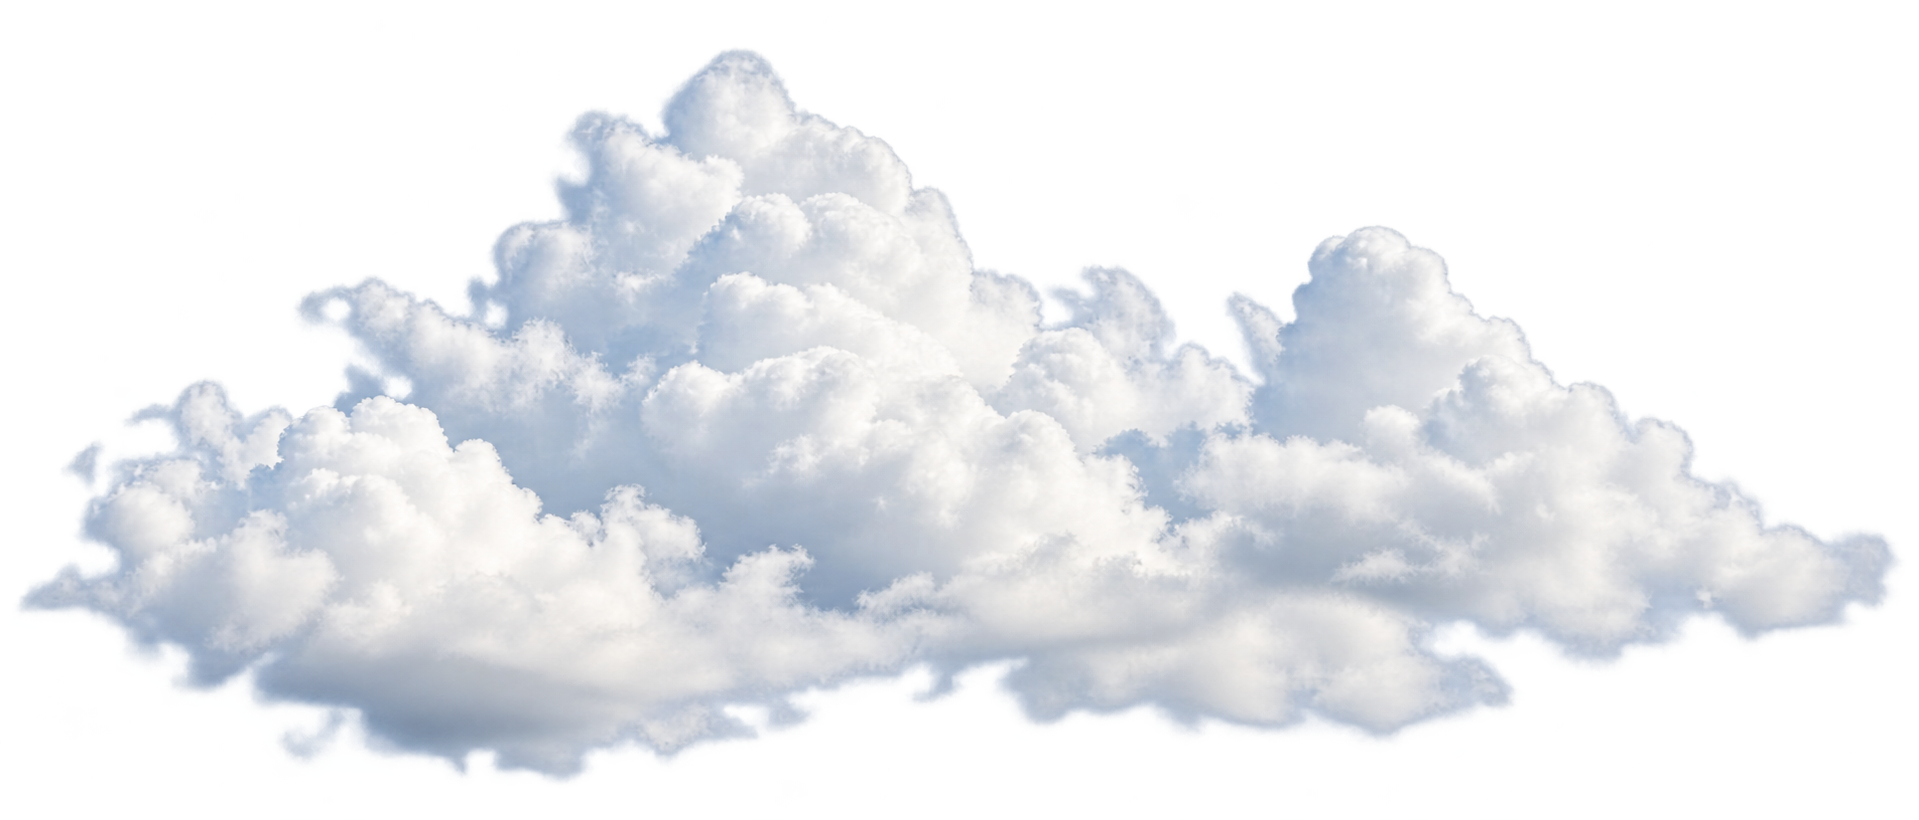
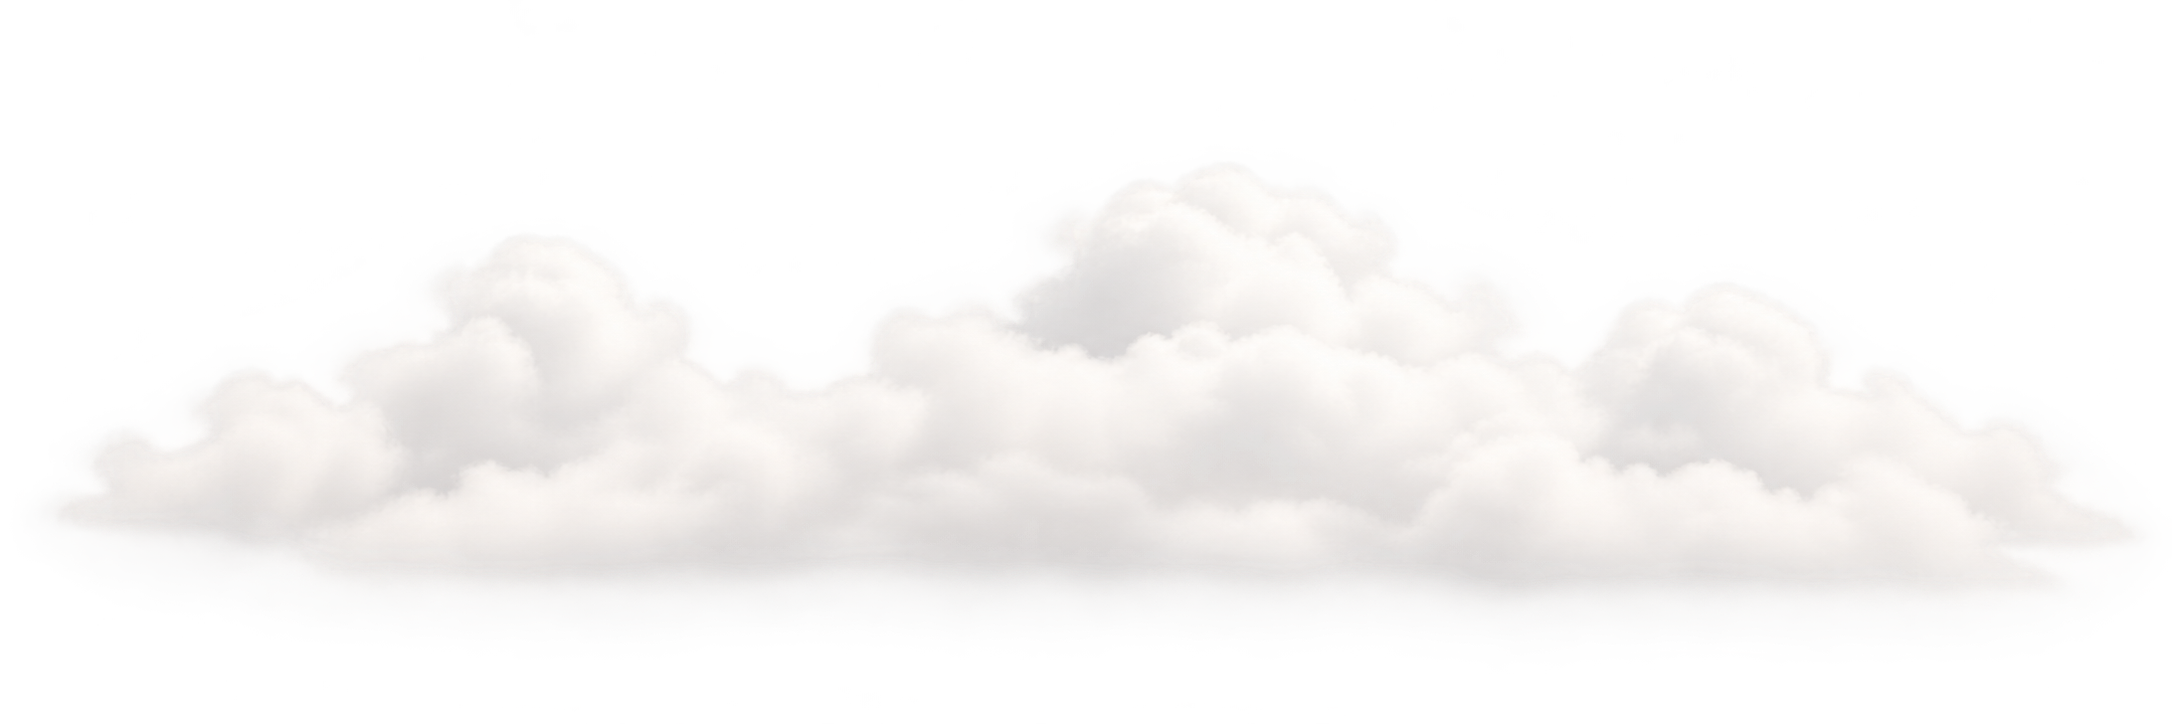
feat: update German translations and enhance portfolio page with new heading structure

Changed region(s): [[0.0, 0.0608, 1.0, 0.9724], [0.3075, 0.7293, 0.3382, 0.7597]]

diff --git a/portfolio-page.tsx b/portfolio-page.tsx
@@ -918,7 +918,11 @@ export default function PortfolioPage() {
       >
         <div className="relative mx-auto max-w-[650px] lg:ml-[15%]">
           <div>
-            <Heading id="product-strengths-title" as="h2" variant="feature" tone="inverse" className="max-w-[620px] text-[clamp(2rem,3.4vw,3.1rem)] leading-[1.02]">
+            <p className="inline-flex items-center gap-2 text-xs font-semibold text-white">
+              <span aria-hidden="true" className="size-1.5 rounded-full bg-white" />
+              {translate("home.productStrengths.eyebrow")}
+            </p>
+            <Heading id="product-strengths-title" as="h2" variant="feature" tone="inverse" className="mt-4 max-w-[620px] text-[clamp(2rem,3.4vw,3.1rem)] leading-[1.02]">
               {translate("home.productStrengths.titleLead")}
               <br />
               {translate("home.productStrengths.titleLineEnd")} {" "}

diff --git a/lib/i18n/dictionary.de.ts b/lib/i18n/dictionary.de.ts
@@ -417,7 +417,7 @@ export const germanDictionary = {
   "home.about.recruiters": "Von Forschung und Problemdefinition über Flows, Prototypen und Umsetzung arbeite ich eng mit Produkt und Engineering zusammen, um Unklarheit in eine klare Richtung zu verwandeln.",
   "home.about.copy": "Bei Enterprise-, KI- und operativen Produkten verbinde ich Systemdenken und barrierefreies Design, um Nutzerbedürfnisse, Geschäftsziele und technische Rahmenbedingungen auszubalancieren.",
   "home.about.cta": "Meine Erfahrung ansehen",
-  "home.productStrengths.eyebrow": "Warum Teams mich hinzuholen",
+  "home.productStrengths.eyebrow": "Was ich mache",
   "home.productStrengths.title": "Komplexe Produktarbeit klar machen",
   "home.productStrengths.titleLead": "Komplexe",
   "home.productStrengths.titleLineEnd": "Produktarbeit",

diff --git a/lib/i18n/dictionary.ts b/lib/i18n/dictionary.ts
@@ -772,9 +772,9 @@ export const dictionary = {
     de: "Meine Erfahrung ansehen",
   },
   "home.productStrengths.eyebrow": {
-    en: "Why teams bring me in",
-    es: "Por qué los equipos cuentan conmigo",
-    de: "Warum Teams mich hinzuholen",
+    en: "What I do",
+    es: "Lo que hago",
+    de: "Was ich mache",
   },
   "home.productStrengths.title": {
     en: "Making complex product work clear",
